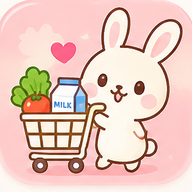
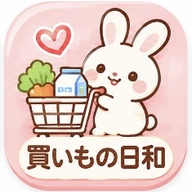
Add files via upload

diff --git a/index.html b/index.html
@@ -1,4 +1,4 @@
-<!doctype html><html lang="ja"><head><meta charset="utf-8"><meta name="viewport" content="width=device-width,initial-scale=1,viewport-fit=cover"><meta name="theme-color" content="#f6f7f4"><link rel="manifest" href="manifest.webmanifest"><title>買いもの日和</title><style>
+<!doctype html><html lang="ja"><head><meta charset="utf-8"><meta name="viewport" content="width=device-width,initial-scale=1,viewport-fit=cover"><meta name="theme-color" content="#f6f7f4"><link rel="manifest" href="manifest.webmanifest?v=icon20261105"><link rel="apple-touch-icon" sizes="180x180" href="icon-180.png?v=icon20261105"><link rel="icon" type="image/png" sizes="192x192" href="icon-192.png?v=icon20261105"><title>買いもの日和</title><style>
 :root{font-family:-apple-system,BlinkMacSystemFont,'Hiragino Kaku Gothic ProN',sans-serif;color:#26332d;background:#f6f7f4;font-size:16px}*{box-sizing:border-box}body{margin:0}button,input,select{font:inherit}button{cursor:pointer}header{padding:20px 18px 12px;background:var(--panel,#fff);position:sticky;top:0;z-index:2;box-shadow:0 2px 10px #00000008}.top{display:flex;justify-content:space-between;align-items:center}h1{font-size:23px;margin:0}.sub{color:#7b8980;font-size:12px}.toolbar{display:flex;gap:8px;margin-top:14px}select,.secondary{border:1px solid #dce4dc;border-radius:12px;background:white;padding:10px;min-width:0}.toolbar select{flex:1}.secondary{font-size:14px}main{padding:14px 14px 115px;max-width:700px;margin:auto}.category{margin:12px 0 18px;background:var(--panel,#fff);border-radius:17px;overflow:hidden;box-shadow:0 3px 16px #00000008}.cathead{padding:13px 15px;display:flex;justify-content:space-between;font-weight:700;background:var(--tint,#e9f2eb);cursor:pointer}.item{display:flex;align-items:center;gap:10px;padding:13px 12px;border-top:1px solid #eef0ed}.item input[type=checkbox]{width:23px;height:23px;accent-color:#438c66}.item .name{flex:1;text-align:left;border:0;background:none;padding:5px 0;color:inherit}.item .star{border:0;background:none;font-size:23px;color:#d1d6ce}.item .star.on{color:#efb640}.qty{font-size:13px;color:#75847b}.purchased .name{opacity:.45;text-decoration:line-through}.purchased{opacity:.7}.floating{position:fixed;right:22px;bottom:26px;border:0;border-radius:50%;width:60px;height:60px;background:#438c66;color:white;font-size:34px;box-shadow:0 5px 22px #35694955;z-index:3}.finish{margin:16px auto;display:block;border:1px solid #cbd9cd;background:#fff;border-radius:12px;padding:12px 18px}.empty{padding:45px 15px;text-align:center;color:#89948b}.overlay{position:fixed;inset:0;background:#0007;z-index:5;display:none;align-items:end}.overlay.open{display:flex}.sheet{background:var(--panel,#fff);border-radius:24px 24px 0 0;width:100%;max-height:88dvh;overflow:auto;padding:14px 20px 32px;box-shadow:0 -8px 35px #0002}.handle{width:44px;height:5px;background:#d5dcd6;border-radius:10px;margin:0 auto 15px}.sheet h2{margin:4px 0 16px;font-size:20px}.field{display:block;margin:11px 0 5px;font-size:13px;color:#637269}.fieldinput{width:100%;border:1px solid #dbe2dc;border-radius:12px;padding:12px;background:#fff;color:#26332d}.row{display:flex;gap:10px;align-items:center}.row>*{min-width:0}.primary{background:#438c66;border:0;color:white;border-radius:13px;padding:13px 18px;font-weight:700}.pills{display:flex;gap:8px;flex-wrap:wrap;margin:9px 0}.pill{border:1px solid #dce6dd;background:#f5f9f5;border-radius:99px;padding:8px 11px;font-size:13px}.checkrow{display:flex;flex-wrap:wrap;gap:9px}.checkrow label{padding:7px 10px;border-radius:10px;background:#f1f5f1;font-size:13px}.tiny{color:#859087;font-size:12px}.settingline{display:flex;align-items:center;justify-content:space-between;gap:10px;margin:10px 0}.settingline input{width:60%}#message{position:fixed;bottom:95px;left:50%;transform:translateX(-50%);background:#26332d;color:#fff;border-radius:20px;padding:9px 16px;display:none;z-index:9;white-space:nowrap;font-size:13px}body[data-theme=2]{--panel:#fffaff;--tint:#fae9f3;background:#fff3fa;color:#513c4d}body[data-theme=3]{--panel:#242b31;--tint:#343e45;background:#171e23;color:#f3f4f3}body[data-theme=3] header,body[data-theme=3] .category{color:#f3f4f3}body[data-theme=3] .fieldinput,body[data-theme=3] select,body[data-theme=3] .secondary{background:#343e45;color:white;border-color:#58636a}body[data-theme=4]{--panel:#fff;--tint:#fff0c9;background:#f8f5e9;color:#3b352d}
 
 /* Theme palette: all visual surfaces use a single set of live variables. */
